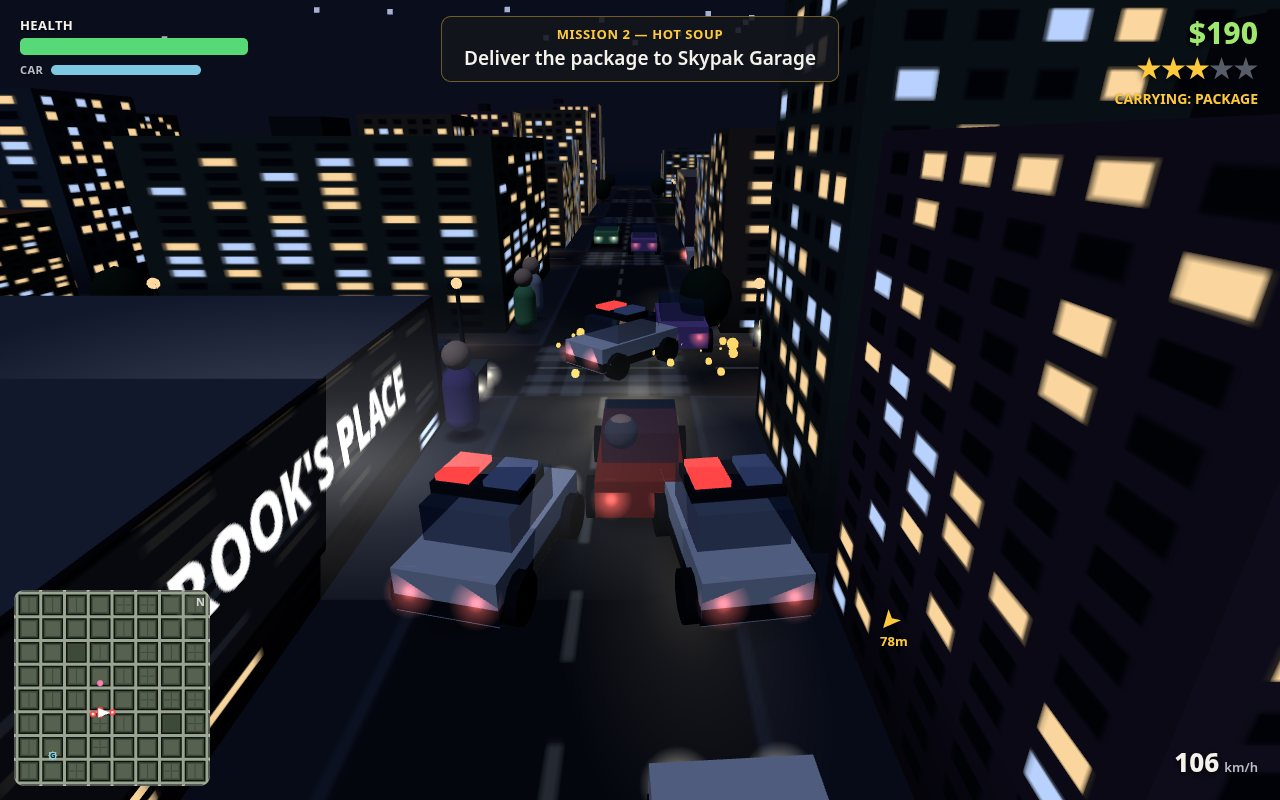
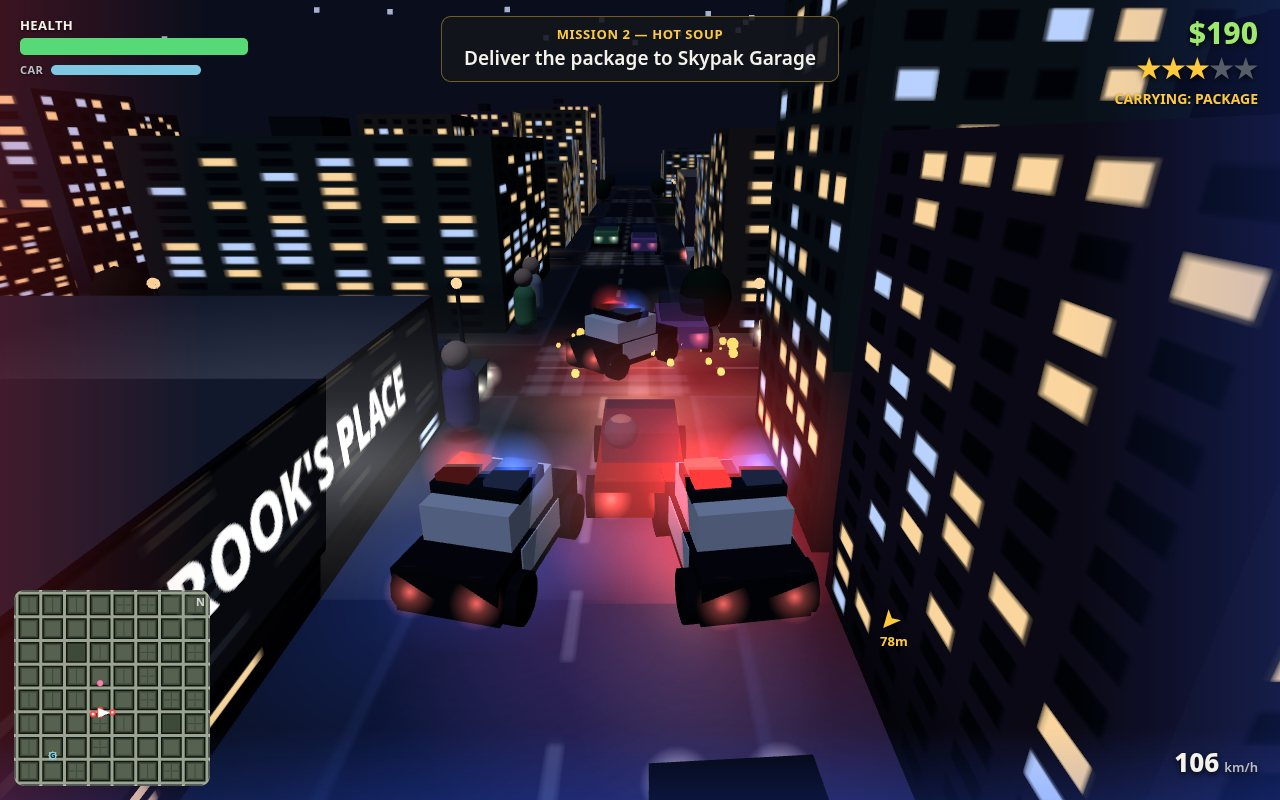
Round 7.2: police light drama — strobes, bloom, road wash, black-and-white livery
- render3d.js: cruisers strobe a double-red/double-blue cycle on their own
  beat (time + car index), with additive bloom sprites over the bar and a
  red/blue wash on the asphalt; black body, white doors and white roof
- hud.js: at 2+ stars in play, the screen edges flash red/blue, swapping on
  the strobe beat and strengthening with each star

diff --git a/game/src/render3d.js b/game/src/render3d.js
@@ -484,8 +484,22 @@ export function createRenderer(canvas, city) {
   const glassMat = new THREE.MeshLambertMaterial({ color: 0x2a3a55, transparent: true, opacity: 0.62 });
   const trimMat = new THREE.MeshLambertMaterial({ color: 0x1d2026 });
   const goldMat = new THREE.MeshLambertMaterial({ color: 0xd9a83c, emissive: 0x694d10, emissiveIntensity: 0.6 });
-  const lightBarRed = new THREE.MeshBasicMaterial({ color: 0xff4545 });
-  const lightBarBlue = new THREE.MeshBasicMaterial({ color: 0x4d7cff });
+  // Police lights: lit and dark lenses (each cruiser picks per frame, so a column
+  // of cars strobes out of step), additive bloom sprites over the bar, and a wash
+  // of red or blue thrown on the asphalt around the car.
+  const barRedOn = new THREE.MeshBasicMaterial({ color: 0xff3b3b });
+  const barRedOff = new THREE.MeshBasicMaterial({ color: 0x4a1414 });
+  const barBlueOn = new THREE.MeshBasicMaterial({ color: 0x3f6dff });
+  const barBlueOff = new THREE.MeshBasicMaterial({ color: 0x1a2340 });
+  const additive = (color, opacity) => ({
+    map: glowTex, color, transparent: true, opacity, depthWrite: false, blending: THREE.AdditiveBlending,
+  });
+  const bloomRed = new THREE.SpriteMaterial(additive(0xff3030, 0.95));
+  const bloomBlue = new THREE.SpriteMaterial(additive(0x3a66ff, 0.95));
+  const washRed = new THREE.MeshBasicMaterial(additive(0xff2a2a, 0.42));
+  const washBlue = new THREE.MeshBasicMaterial(additive(0x2f5bff, 0.48));
+  const policeBlack = new THREE.MeshLambertMaterial({ color: 0x15171c });
+  const policeWhite = new THREE.MeshLambertMaterial({ color: 0xe9edf2, emissive: 0x2a2e36 });
   const patchMat = new THREE.MeshBasicMaterial({
     map: glowTex, color: 0xffedb8, transparent: true, opacity: 0.15, depthWrite: false, blending: THREE.AdditiveBlending,
   });
@@ -497,6 +511,9 @@ export function createRenderer(canvas, city) {
   const barLightGeo = new THREE.BoxGeometry(11, 3, 7.5);
   const patchGeo = new THREE.PlaneGeometry(120, 52);
   patchGeo.rotateX(-Math.PI / 2);
+  const doorsGeo = new THREE.BoxGeometry(21, 7.4, 22.6);
+  const washGeo = new THREE.PlaneGeometry(150, 150);
+  washGeo.rotateX(-Math.PI / 2);
 
   function makeCarMesh() {
     const group = new THREE.Group();
@@ -509,20 +526,31 @@ export function createRenderer(canvas, city) {
     stripe.visible = false;
     const barBase = new THREE.Mesh(barBaseGeo, trimMat);
     barBase.position.set(-1.5, 23.4, 0);
-    barBase.visible = false;
-    const barRed = new THREE.Mesh(barLightGeo, lightBarRed);
+    const barRed = new THREE.Mesh(barLightGeo, barRedOn);
     barRed.position.set(-1.5, 24.6, -5.4);
-    barRed.visible = false;
-    const barBlue = new THREE.Mesh(barLightGeo, lightBarBlue);
+    const barBlue = new THREE.Mesh(barLightGeo, barBlueOn);
     barBlue.position.set(-1.5, 24.6, 5.4);
-    barBlue.visible = false;
+    const bloomR = new THREE.Sprite(bloomRed);
+    bloomR.position.set(-1.5, 26, -6);
+    const bloomB = new THREE.Sprite(bloomBlue);
+    bloomB.position.set(-1.5, 26, 6);
+    bloomR.renderOrder = 4;
+    bloomB.renderOrder = 4;
+    const doors = new THREE.Mesh(doorsGeo, policeWhite);
+    doors.position.set(-1, 10.2, 0);
+    const wash = new THREE.Mesh(washGeo, washRed);
+    wash.position.set(0, 0.2, 0);
+    wash.renderOrder = 2;
+    const police = new THREE.Group();
+    police.add(barBase, barRed, barBlue, bloomR, bloomB, doors, wash);
+    police.visible = false;
     const patch = new THREE.Mesh(patchGeo, patchMat);
     patch.position.set(74, 0.14, 0);
     patch.renderOrder = 2;
-    group.add(body, cabin, stripe, barBase, barRed, barBlue, patch);
+    group.add(body, cabin, stripe, police, patch);
     group.visible = false;
     scene.add(group);
-    return { group, body, stripe, barBase, barRed, barBlue, patch };
+    return { group, body, cabin, stripe, police, barRed, barBlue, bloomR, bloomB, wash, patch };
   }
   const carMeshes = [];
   for (let i = 0; i < MAX_CARS; i += 1) carMeshes.push(makeCarMesh());
@@ -717,9 +745,6 @@ export function createRenderer(canvas, city) {
   // ---------------------------------------------------------- per-frame sync
 
   function syncCars(state, time) {
-    const flashPhase = Math.floor(time * 2.6) % 2 === 0;
-    lightBarRed.color.setHex(flashPhase ? 0xff4545 : 0x571616);
-    lightBarBlue.color.setHex(flashPhase ? 0x27355e : 0x4d7cff);
     let wheelI = 0;
     let glowI = 0;
     state.cars.forEach((car, i) => {
@@ -728,12 +753,24 @@ export function createRenderer(canvas, city) {
       mesh.group.visible = true;
       mesh.group.position.set(car.x, 0, car.y);
       mesh.group.rotation.y = -car.angle;
-      mesh.body.material = car.kind === 'showpiece' ? goldMat : bodyMat(car.color);
       const isPolice = car.kind === 'police';
-      mesh.stripe.visible = isPolice;
-      mesh.barBase.visible = isPolice;
-      mesh.barRed.visible = isPolice;
-      mesh.barBlue.visible = isPolice;
+      mesh.body.material = car.kind === 'showpiece' ? goldMat : isPolice ? policeBlack : bodyMat(car.color);
+      mesh.stripe.visible = false;
+      mesh.police.visible = isPolice;
+      mesh.cabin.material = isPolice ? policeWhite : glassMat;
+      if (isPolice) {
+        // Each cruiser strobes on its own beat (offset by its index): a double
+        // red flash, then a double blue, the way real bars cycle.
+        const beat = Math.floor(time * 7.5 + i * 2.7) % 8;
+        const redOn = car.health > 0 && (beat === 0 || beat === 2);
+        const blueOn = car.health > 0 && (beat === 4 || beat === 6);
+        mesh.barRed.material = redOn ? barRedOn : barRedOff;
+        mesh.barBlue.material = blueOn ? barBlueOn : barBlueOff;
+        mesh.bloomR.scale.setScalar(redOn ? 78 : 18);
+        mesh.bloomB.scale.setScalar(blueOn ? 84 : 18);
+        mesh.wash.visible = car.health > 0;
+        mesh.wash.material = beat < 4 ? washRed : washBlue;
+      }
       mesh.patch.visible = car.health > 0;
       // A wreck sits dark and low; a healthy car rides at its full height.
       mesh.group.position.y = car.health <= 0 ? -2.2 : 0;

diff --git a/game/src/hud.js b/game/src/hud.js
@@ -238,6 +238,16 @@ export function createHud() {
     } else if (ui.screen === 'wasted') {
       flash.style.background = 'rgba(30, 8, 8, 0.35)';
       flash.style.display = 'block';
+    } else if (ui.screen === 'play' && world.state.wanted.stars >= 2) {
+      // Under pursuit the screen edges pick up the light bars: red on one side,
+      // blue on the other, swapping on the strobe beat, stronger with each star.
+      const a = (0.1 + world.state.wanted.stars * 0.035).toFixed(3);
+      const swap = Math.floor(world.state.time * 3.75) % 2 === 0;
+      const red = `rgba(255, 40, 48, ${a})`;
+      const blue = `rgba(48, 92, 255, ${a})`;
+      flash.style.background = `linear-gradient(90deg, ${swap ? red : blue} 0%, transparent 16%, transparent 84%, ${swap ? blue : red} 100%),`
+        + ` linear-gradient(0deg, ${swap ? blue : red} 0%, transparent 9%)`;
+      flash.style.display = 'block';
     } else {
       flash.style.display = 'none';
     }
